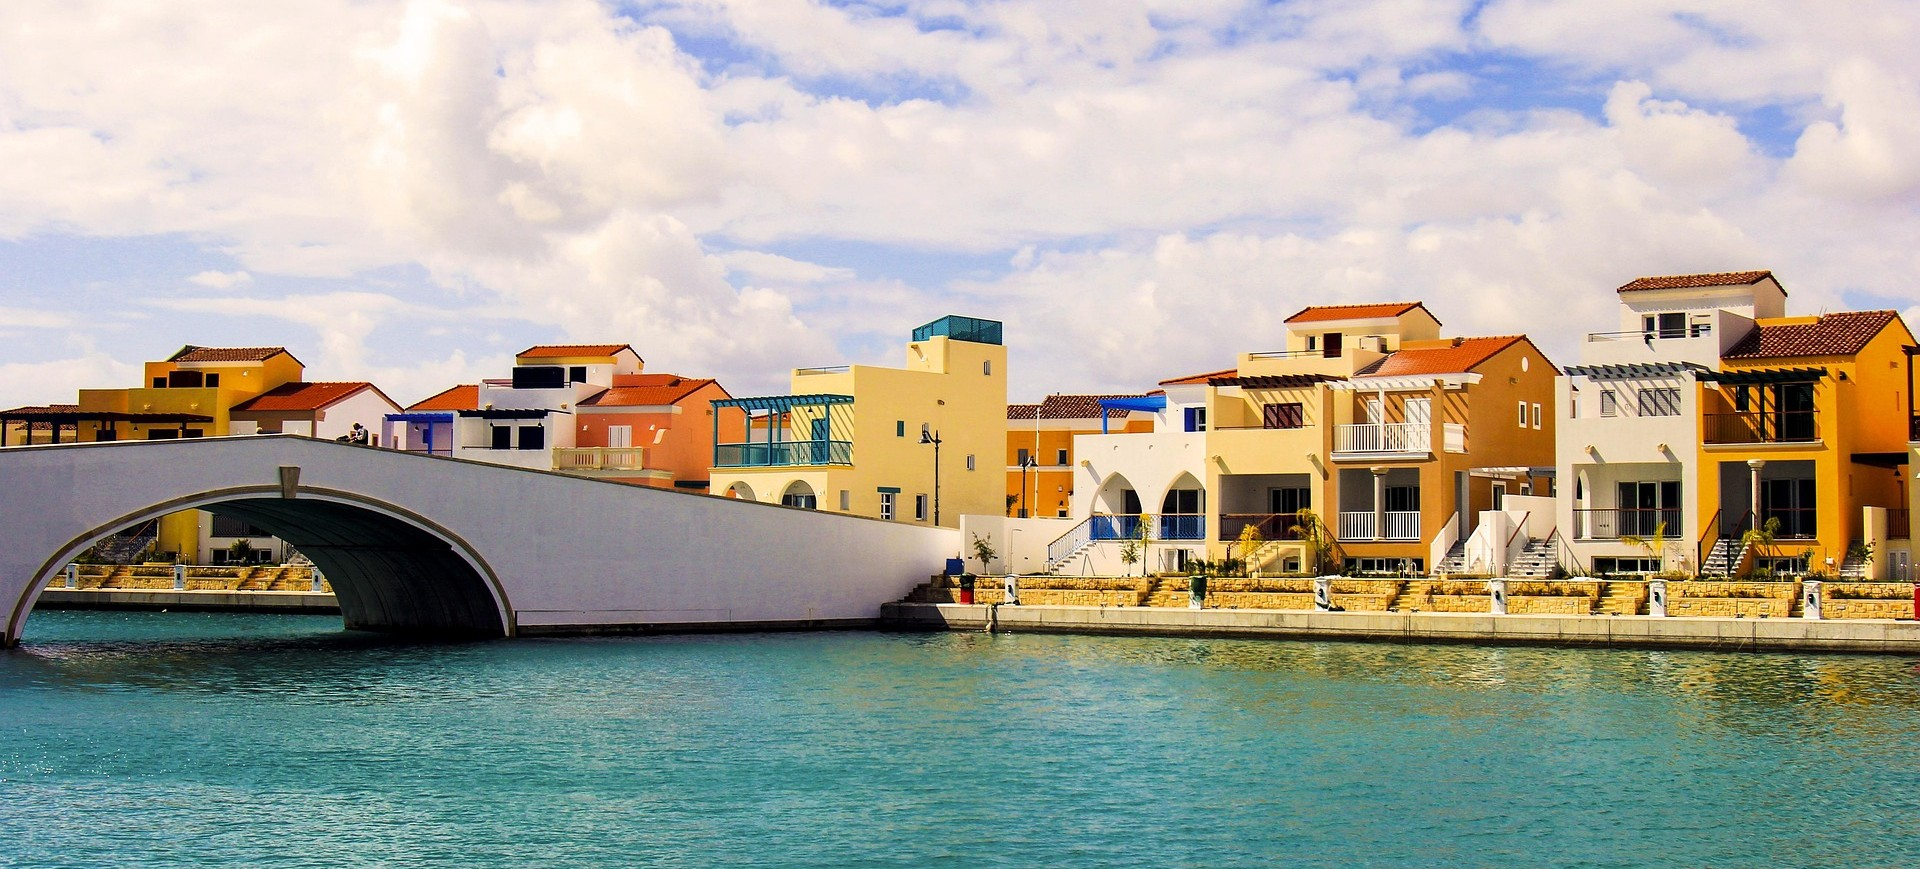
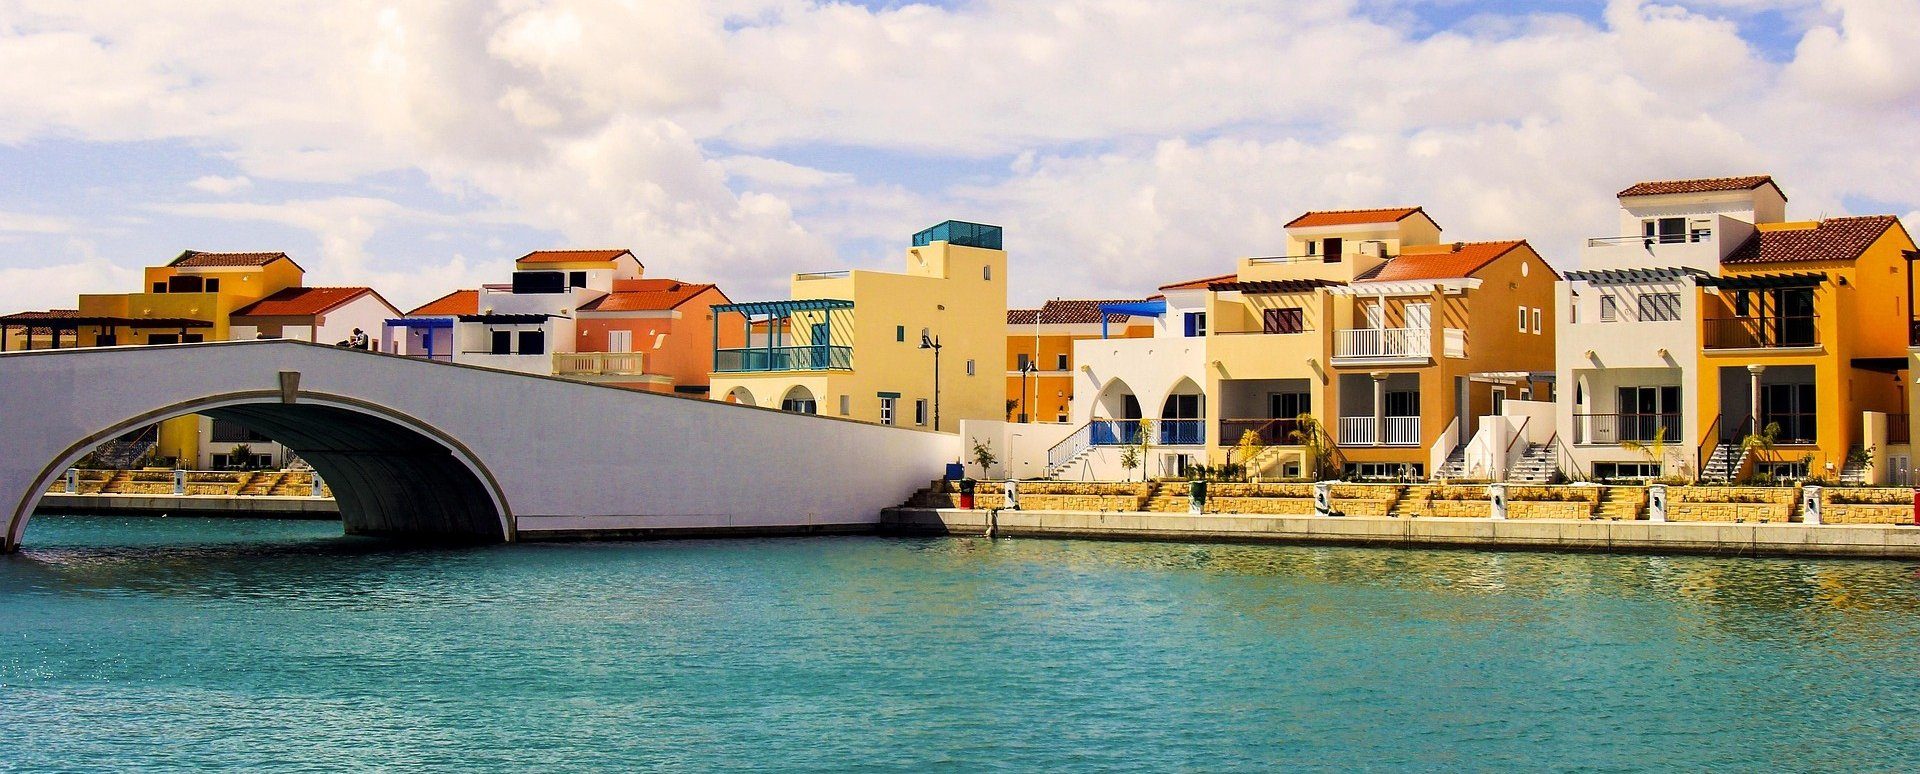
Adjust images; remove calendar.ics

diff --git a/_includes/right-column.md b/_includes/right-column.md
@@ -75,7 +75,7 @@
 <a target="_blank" href="/important-dates.ics" title="Save important dates">
 <div style="margin-left:18px">
 <div style="margin-left:-18px" class="glyphicon glyphicon-calendar float-left"></div>
-<span>Add to your calendar (*.ics)</span></div></a>
+# <span>Add to your calendar (*.ics)</span></div></a>
 </li>
 </ul>
 </div>
